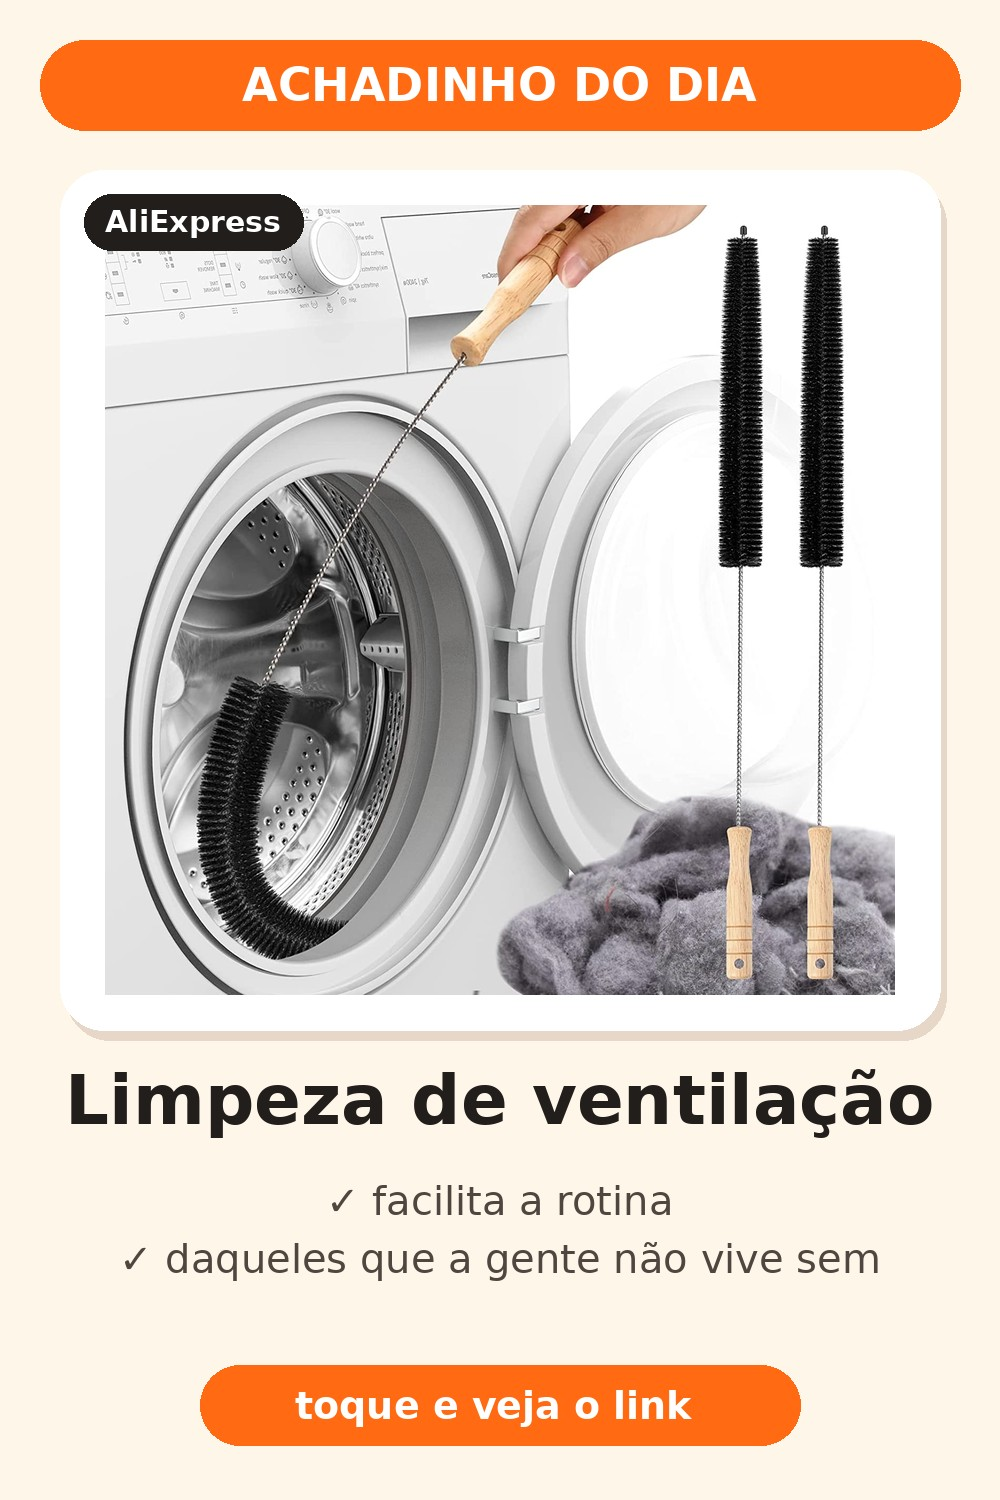
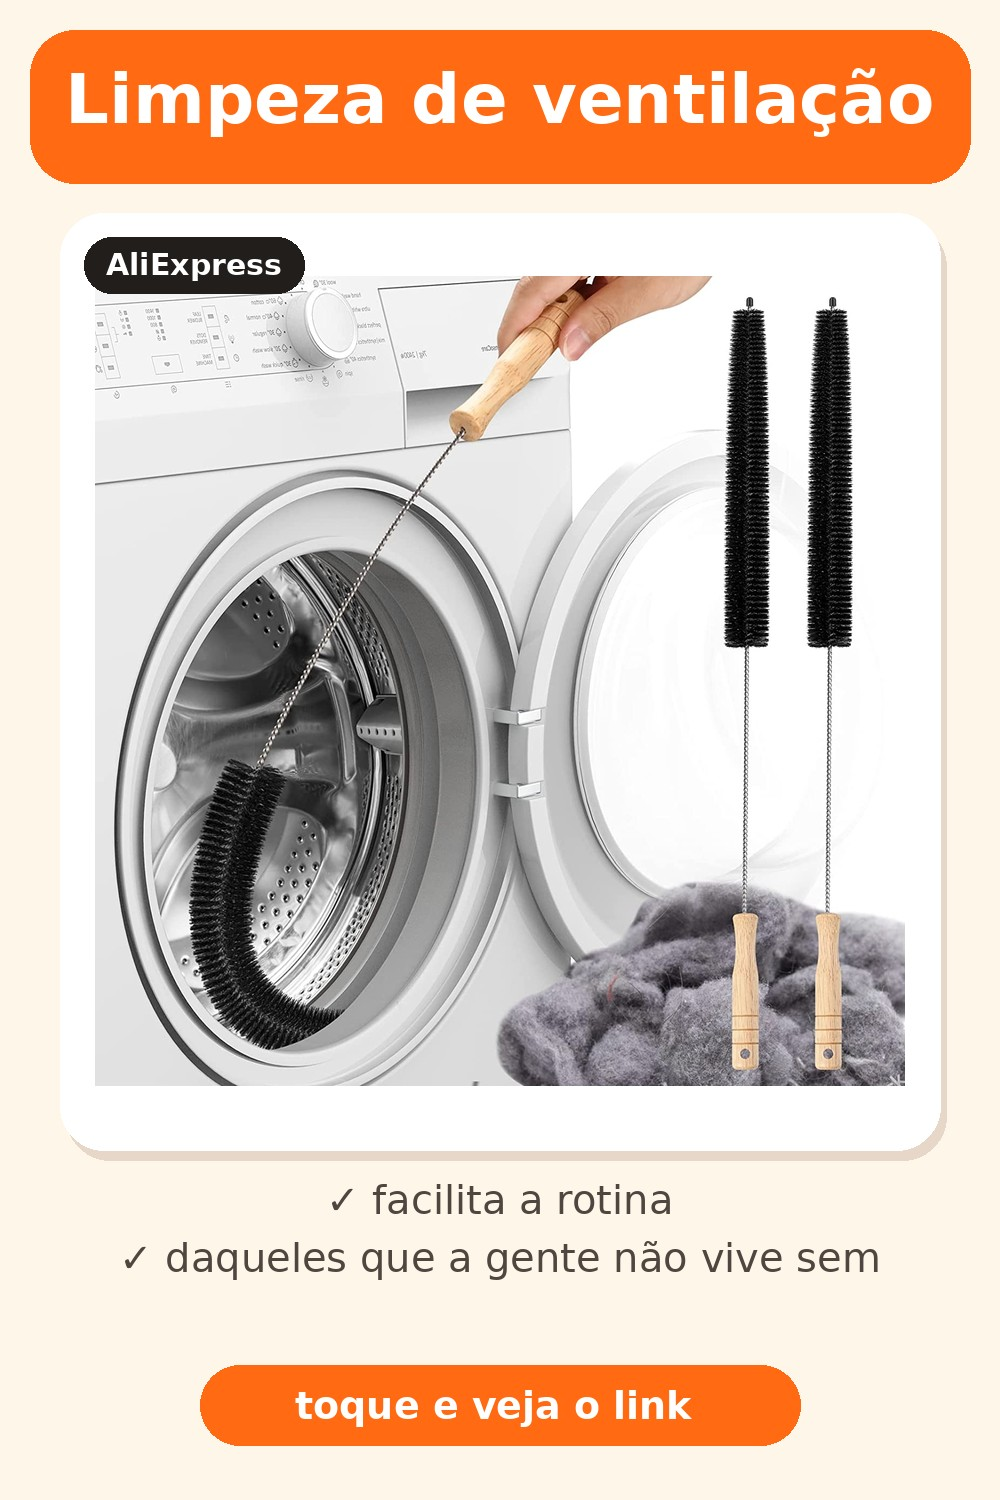
pin 44b88e7228

diff --git a/p/44b88e7228.html b/p/44b88e7228.html
@@ -10,7 +10,7 @@ a.g{background:#25d366}a.t{background:#229ed9}small{color:#8a807a}</style></head
 <img class="p" src="44b88e7228.jpg" alt="Limpeza de ventilação">
 <h1>Limpeza de ventilação</h1><p>Kit de limpeza de ventilação de secador, escova removedora de fiapos, escova longa e flexível de bobina de geladeira, es</p>
 <a class="b" href="https://s.click.aliexpress.com/e/_c4cLIsj3" rel="nofollow noopener">Ver na AliExpress ›</a>
-<a class="b g" href="https://chat.whatsapp.com/IYqNLew0vBM6CF57IIEmqd">Receba achadinhos todo dia no WhatsApp (grátis)</a>
+<a class="b g" href="https://chat.whatsapp.com/IYqNLew0vBM6CF57IIEmqd">Receba achadinhos todo dia no Grupo do WhatsApp (grátis)</a>
 <a class="b t" href="https://t.me/achadinhosdodiaoferta">Canal do Telegram (grátis)</a>
 <a class="b" style="background:#221e1c" href="../">Ver todos os achados</a>
 <small>Link de afiliado: você paga o mesmo preço. Preço e estoque podem mudar.</small></div></body></html>
